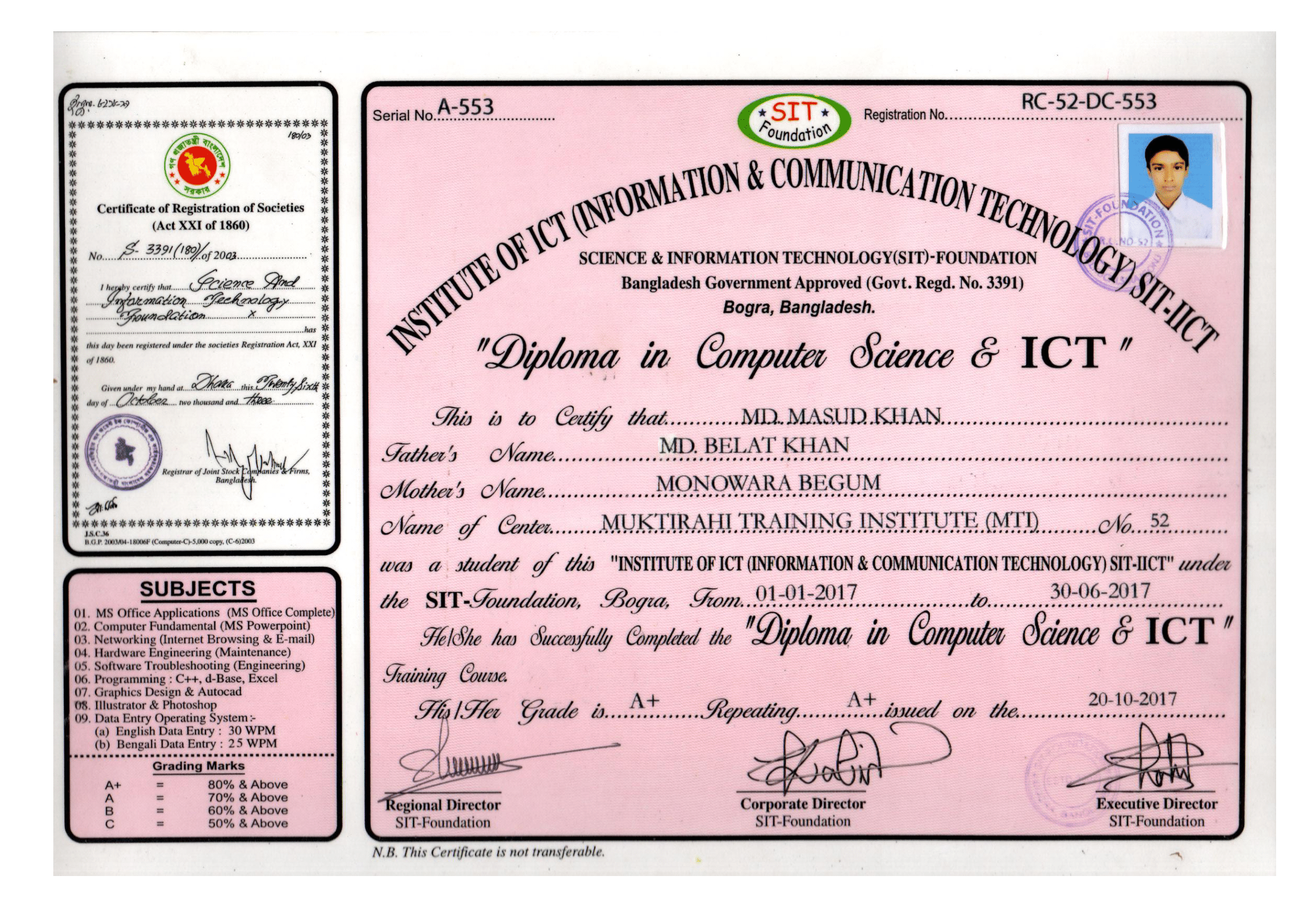
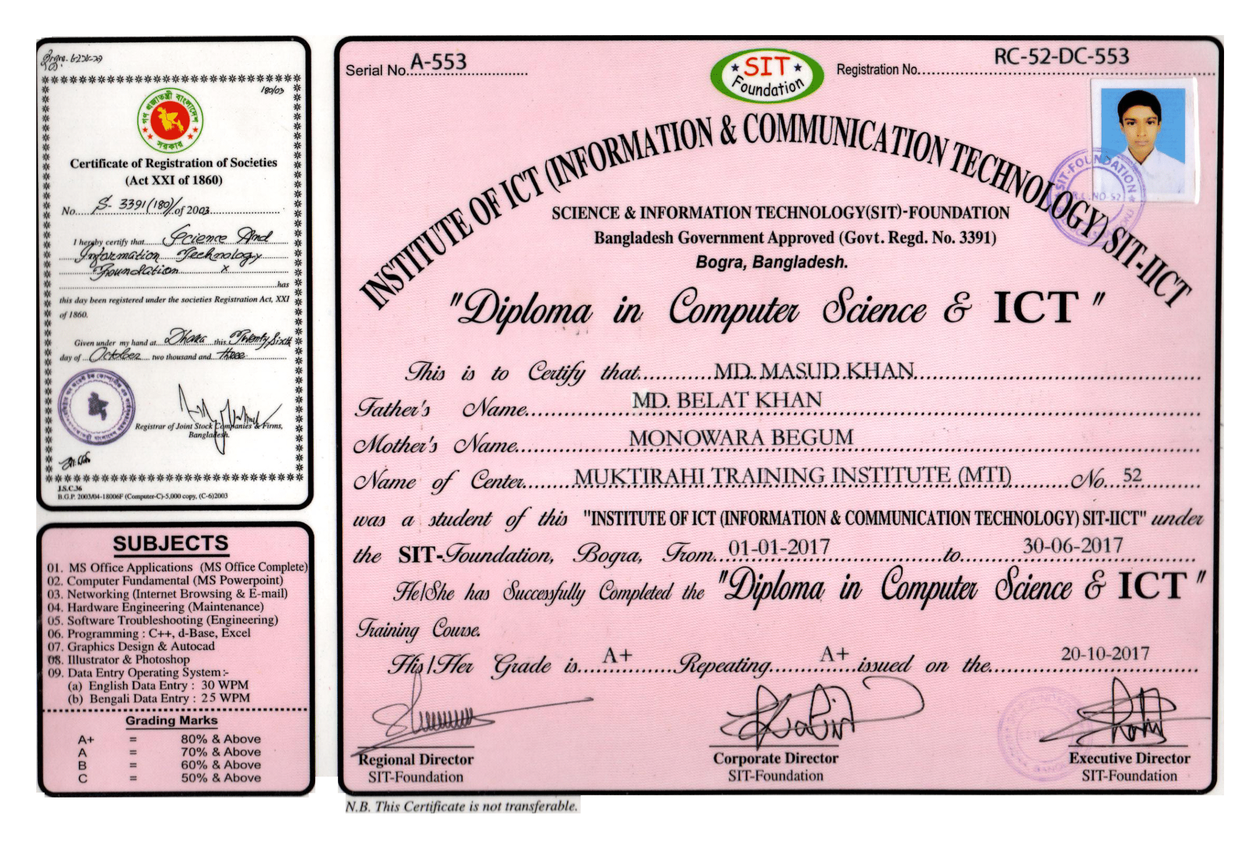
update

diff --git a/index.html b/index.html
@@ -97,17 +97,19 @@
         <div class="container">    	
             <div class="my_certificates">
                 <h1>My Certificates</h1>
-                <div class="slider-wrapper theme-light">
-                    <div id="slider" class="nivoSlider">
-                        <img src="img/my_certificate_01.png" />
-                        <img src="img/my_certificate_02.png" />
-                        <img src="img/my_certificate_03.png" />
-                        <img src="img/my_certificate_04.png" />
-                        <img src="img/my_certificate_05.png" />
-                        <img src="img/my_certificate_06.png" />
-                        <img src="img/my_certificate_07.png" />
+               <div class="certificate">
+                    <div class="slider-wrapper theme-light">
+                        <div id="slider" class="nivoSlider">
+                            <img src="img/my_certificate_01.png" />
+                            <img src="img/my_certificate_02.png" />
+                            <img src="img/my_certificate_03.png" />
+                            <img src="img/my_certificate_04.png" />
+                            <img src="img/my_certificate_05.png" />
+                            <img src="img/my_certificate_06.png" />
+                            <img src="img/my_certificate_07.png" />
+                        </div>
                     </div>
-                </div>
+               </div>
             </div>
         </div>
     </div>

diff --git a/style.css b/style.css
@@ -285,8 +285,18 @@ h1 h2 h3 h4 h5 h6{
 
 
 .my_certificates{
-    padding-bottom: 70px;
+ 
 }
+
+
+
+.my_certificates .certificate{
+    height: 500px;
+    width: 850px;
+    margin: 0 auto;
+    padding-bottom: 10em;
+}
+
 
 
 .my_certificates h1{
@@ -298,8 +308,8 @@ h1 h2 h3 h4 h5 h6{
 }
 
 .theme-light .nivo-controlNav{
-    margin-left: 37em;
-    margin-top: -1.5em;
+    margin-left: 26em;
+    margin-top: -4.5em;
 }
 
 .theme-light a.nivo-prevNav{
